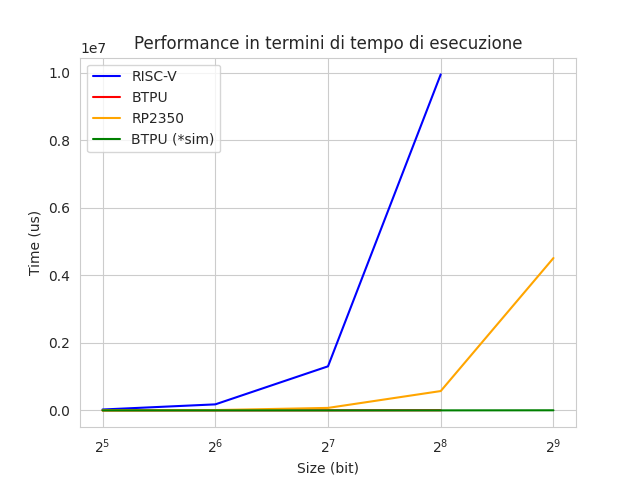
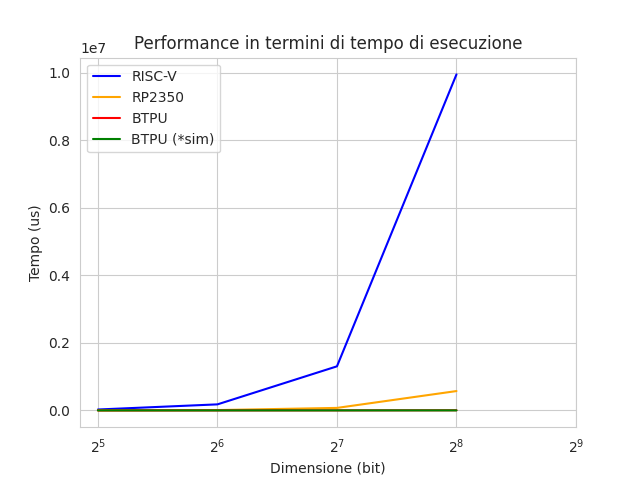
Calcolato anche lo speedup

diff --git a/chats.py b/chats.py
@@ -13,6 +13,8 @@ def seabornConfig():
 def createChart(filename, img_filename):
     plt.clf()
     
+    x_values = 8
+    
     # Leggi il dataframe dal file CSV
     try:
         df = pd.read_csv(filename)
@@ -30,13 +32,15 @@ def createChart(filename, img_filename):
     # Controllo che le colonne siano presenti    
     df['BTPU'] = df['Caricamento'] + df['Settaggio'] + df['Inizializzazione'] + df['ComputazioneBTPU'] + df['LetturaRisultato']
     
+    # Calcolo dello speedup
+    df['Speedup'] = df['ComputazioneSerialeFast'] / df['BTPU']
+    
     # print(df[['BTPU', 'ComputazioneSerialeFast']])
     
     df_FPGA = df[df['platform'] == 'FPGA']
     df_RP2350 = df[df['platform'] == 'RP2350']
     
-    df_RP2350 = df_RP2350.iloc[:len(df_FPGA)].copy()
-    df_RP2350['ComputazioneBTPU'] = df_FPGA['ComputazioneBTPU'].values
+    df_RP2350.loc[:, 'ComputazioneBTPU'] = df_FPGA['ComputazioneBTPU'].values
     
     sns.lineplot(x='size(bit)', y='ComputazioneSerialeFast', data=df_FPGA, label='RISC-V', color='blue')
     sns.lineplot(x='size(bit)', y='ComputazioneSerialeFast', data=df_RP2350, label='RP2350', color='orange')
@@ -73,6 +77,40 @@ def createChart(filename, img_filename):
         plt.savefig(img_filename + '-log.pdf', format="pdf")
     else:
         plt.savefig(img_filename + '-log.png')
+                
+    ## Plotting the speedup
+    plt.clf()
+        
+    sns.lineplot(x='size(bit)', y='Speedup', data=df_FPGA, label='RISC-V/BTPU', color='blue')
+    sns.lineplot(x='size(bit)', y='Speedup', data=df_RP2350, label='RP2350/BTPU(*sim)', color='red')
+    plt.title('Speedup')
+    
+    plt.xlabel('Dimensione (bit)')
+    plt.ylabel('Speedup')
+    
+    plt.xscale('log')
+    ticks = []
+    ticks_labels = []
+    for i in range(5, 10):
+        ticks.append(2**i)
+        ticks_labels.append('$2^{' + str(i) + '}$')
+    
+    plt.xticks(ticks, ticks_labels)    
+    
+    plt.legend()
+    if img_filename.endswith(".pdf"):
+        img_filename = img_filename[:-4]
+        plt.savefig(img_filename + '-speedup.pdf', format="pdf")
+    else:
+        plt.savefig(img_filename + '-speedup.png')
+        
+    plt.yscale('log')
+    if img_filename.endswith(".pdf"):
+        img_filename = img_filename[:-4]
+        plt.savefig(img_filename + '-speedup-log.pdf', format="pdf")
+    else:
+        plt.savefig(img_filename + '-speedup-log.png')
+       
     return 1
 
     
@@ -83,4 +121,4 @@ if __name__ == "__main__":
     
 
     # Create the chart
-    createChart("DatiRow/RisultatiRow.csv", "Immagini/risultati.pdf")
+    createChart("DatiRow/RisultatiRow.csv", "Immagini/risultati")
